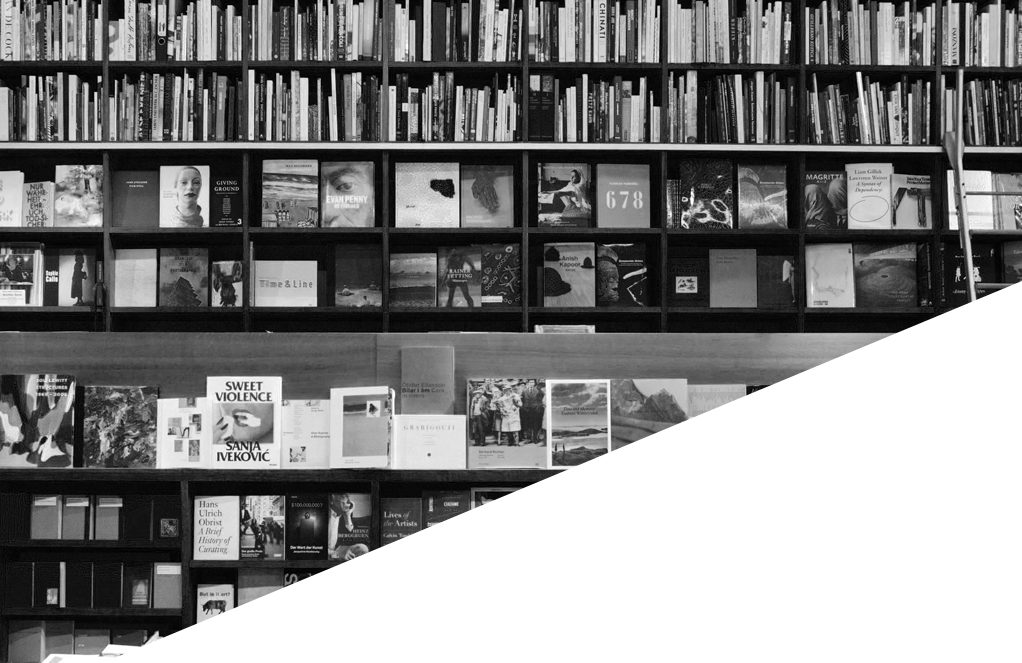
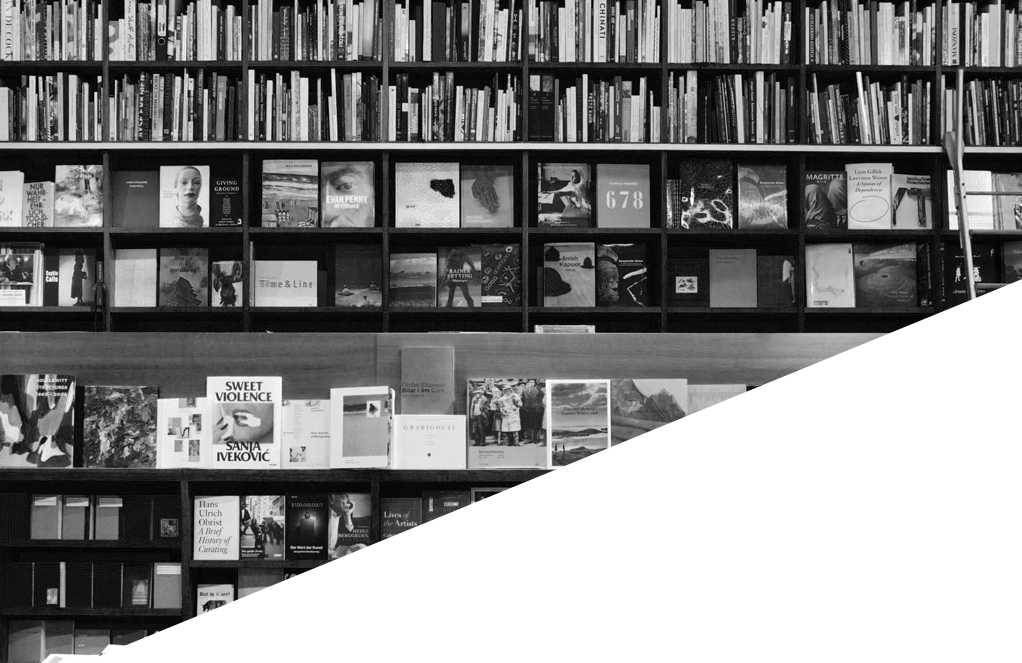
Crop books image and adjust placement css

diff --git a/app/assets/stylesheets/application.css b/app/assets/stylesheets/application.css
@@ -15,8 +15,8 @@
   z-index: 0;
 }
 .books {
-  top: -205px;
-  left: -60px;
+  top: -105px;
+  left: -245px;
   position: absolute;
   z-index: 0;
 }
